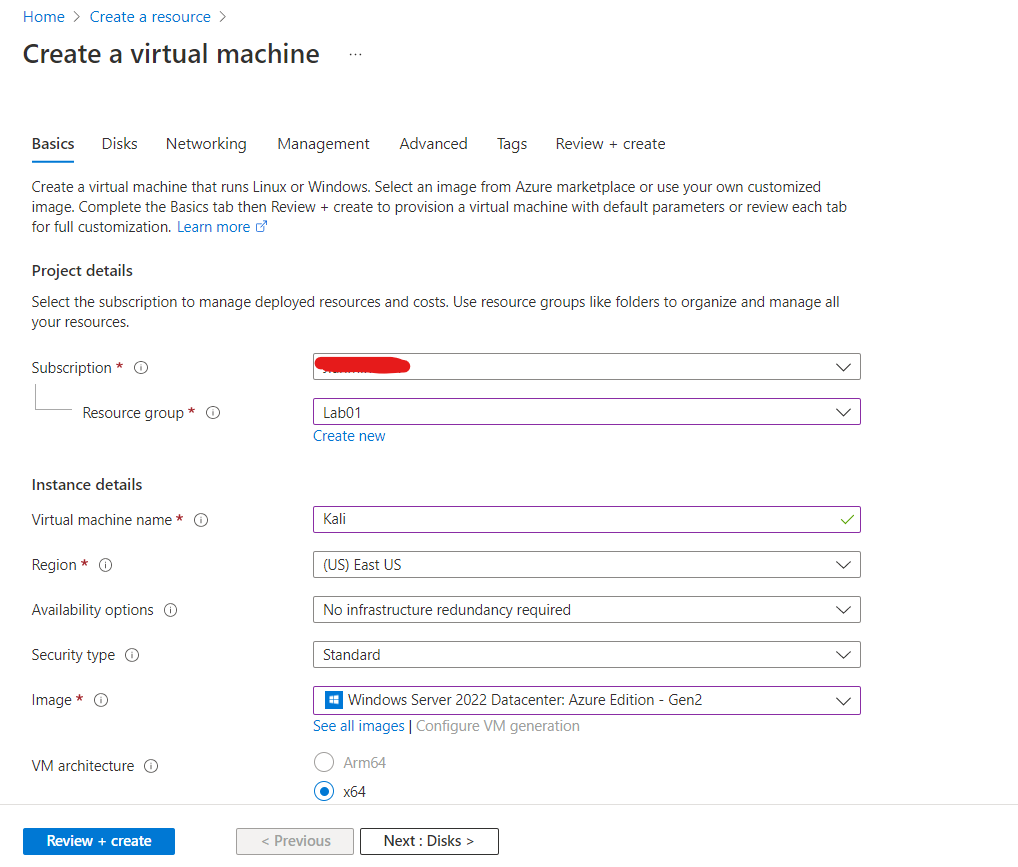
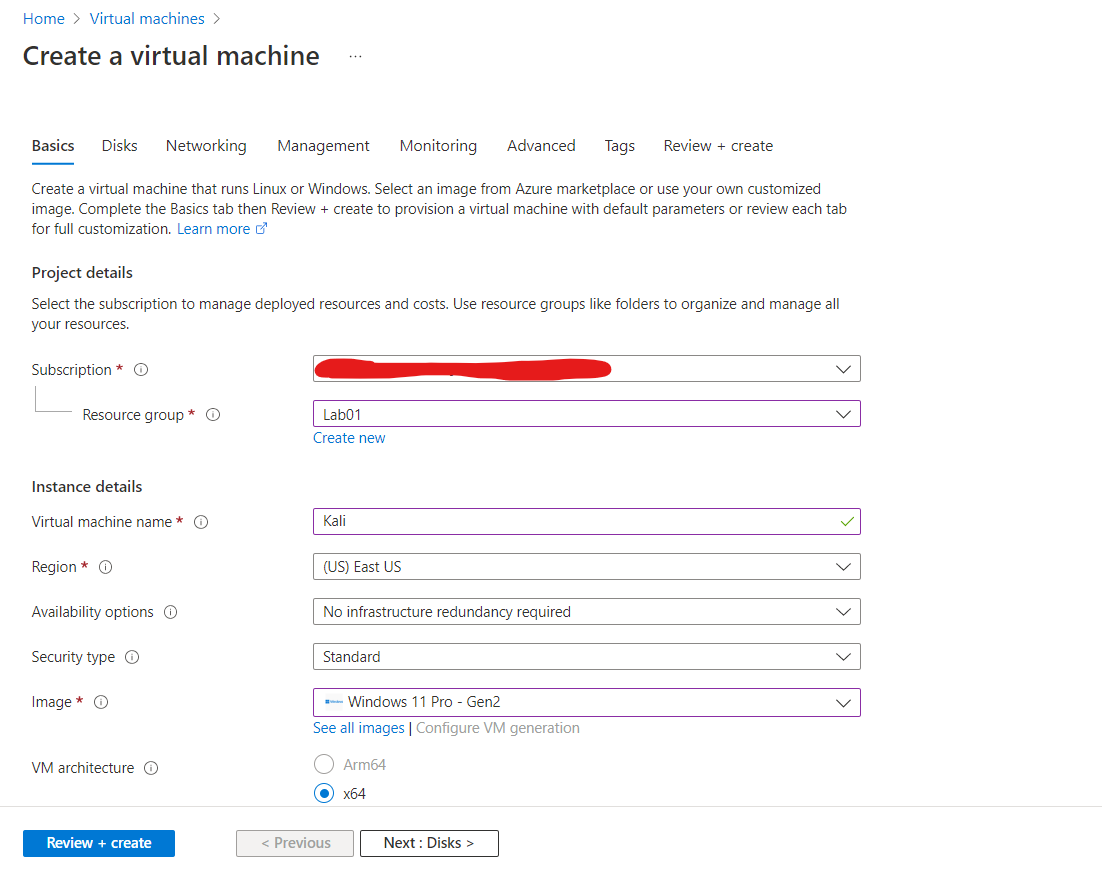
change to windows 11

diff --git a/Lab-Environment-VM-WSL.md b/Lab-Environment-VM-WSL.md
@@ -42,7 +42,7 @@
 
 
 (2). 在Basics部分，按照如下参数进行配置(部分参数未提供,按需求填写即可):  
-* Image: `Windows Server 2022 Datacenter`
+* Image: `Windows 11 Pro - Gen2`
 * Size: `Standard_D2s_v5`  
 ![basics-1](./images/Vm/vm-2-basics-1.png)
 ![basics-2](./images/Vm/vm-2-basics-2.png) 
